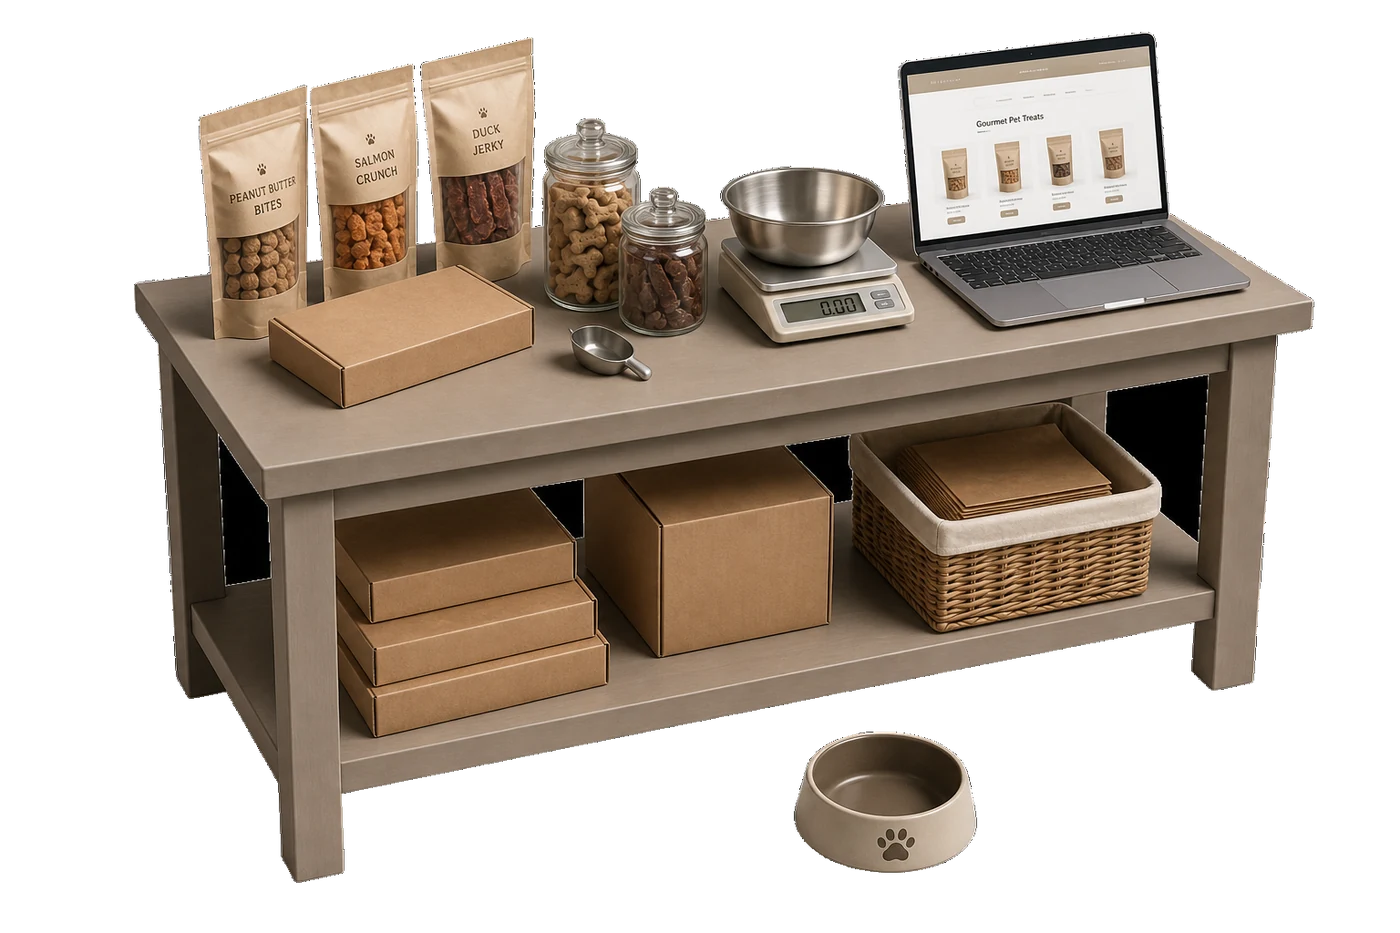
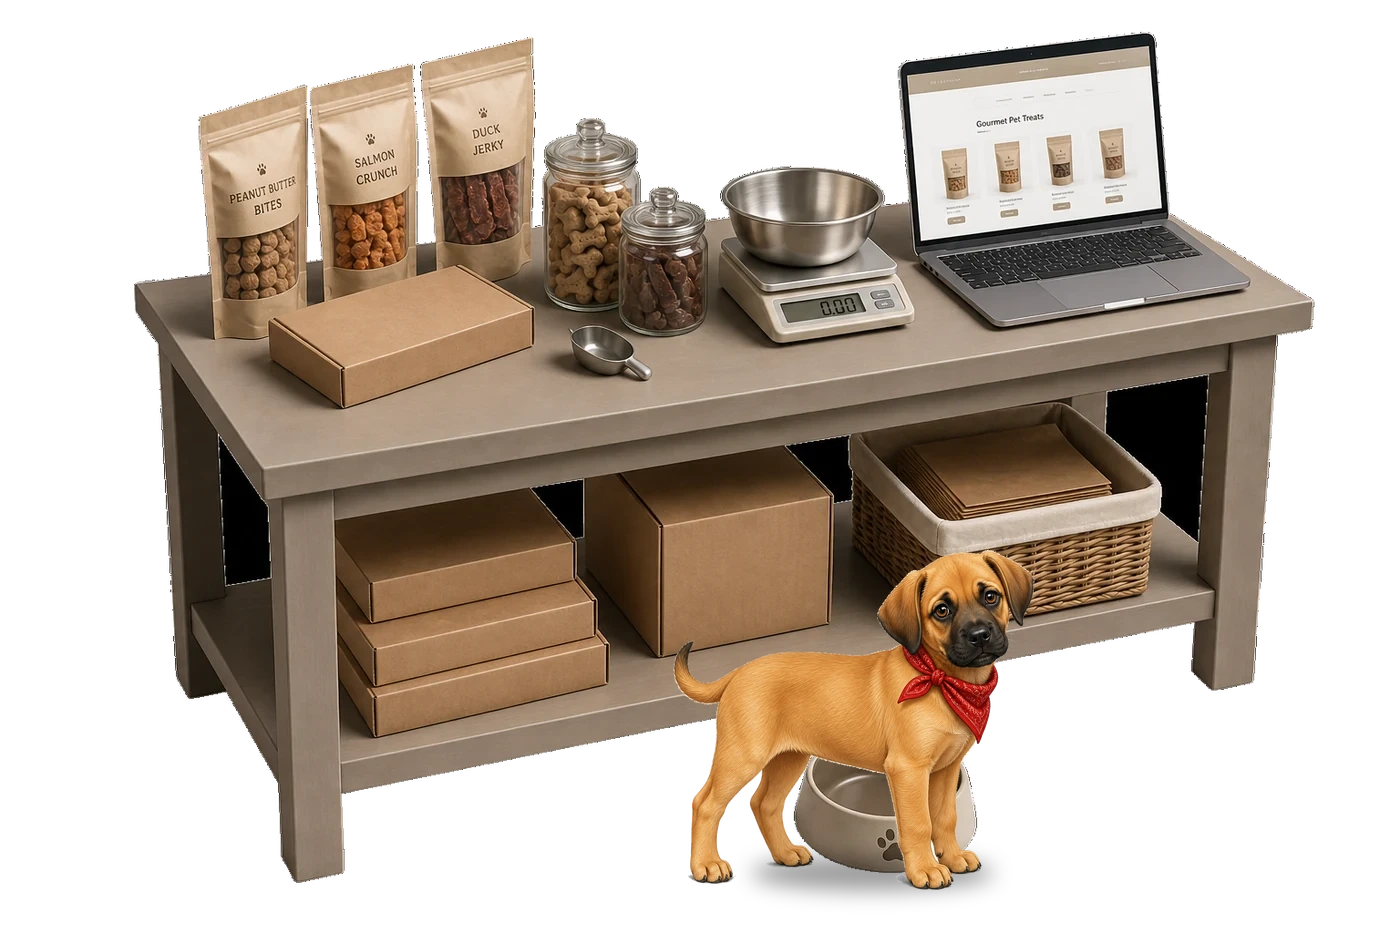
Add Rambo walking up to the bowl on pet business hero
Composite Rambo into the pet-business insurance hero beside the
floor bowl, facing toward it, and keep the pet stage motion treats.

Changed region(s): [[0.4607, 0.5906, 0.7371, 0.9636]]

diff --git a/src/components/IndustryPhotoStage.tsx b/src/components/IndustryPhotoStage.tsx
@@ -48,7 +48,8 @@ type MotionKind =
   | "hoa-single-family"
   | "hoa-townhome"
   | "life"
-  | "annuity";
+  | "annuity"
+  | "pet";
 
 const MOTION_BY_SLUG: Record<string, MotionKind> = {
   ecommerce: "computer",
@@ -56,7 +57,7 @@ const MOTION_BY_SLUG: Record<string, MotionKind> = {
   "clothing-store": "rack",
   cpg: "pallet",
   "food-and-beverage": "shop",
-  "pet-business": "float",
+  "pet-business": "pet",
   supplement: "pills",
   "alcoholic-beverage": "pour",
   "box-truck": "box-truck",
@@ -187,7 +188,9 @@ export function IndustryPhotoStage({
       aria-labelledby={labelId}
     >
       <span id={labelId} className="sr-only">
-        Interactive {label} scene — move to tilt; products animate in place
+        {motion === "pet"
+          ? `Interactive ${label} scene with Rambo walking up to his bowl — move to tilt`
+          : `Interactive ${label} scene — move to tilt; products animate in place`}
       </span>
 
       <div ref={mediaRef} className="pw-photo-stage-media">
@@ -491,6 +494,12 @@ export function IndustryPhotoStage({
               <>
                 <span className="pw-fx-annuity-flow" />
                 <span className="pw-fx-annuity-coin" />
+              </>
+            )}
+            {motion === "pet" && (
+              <>
+                <span className="pw-fx-treat pw-fx-treat-a" />
+                <span className="pw-fx-treat pw-fx-treat-b" />
               </>
             )}
             {motion === "float" && (
